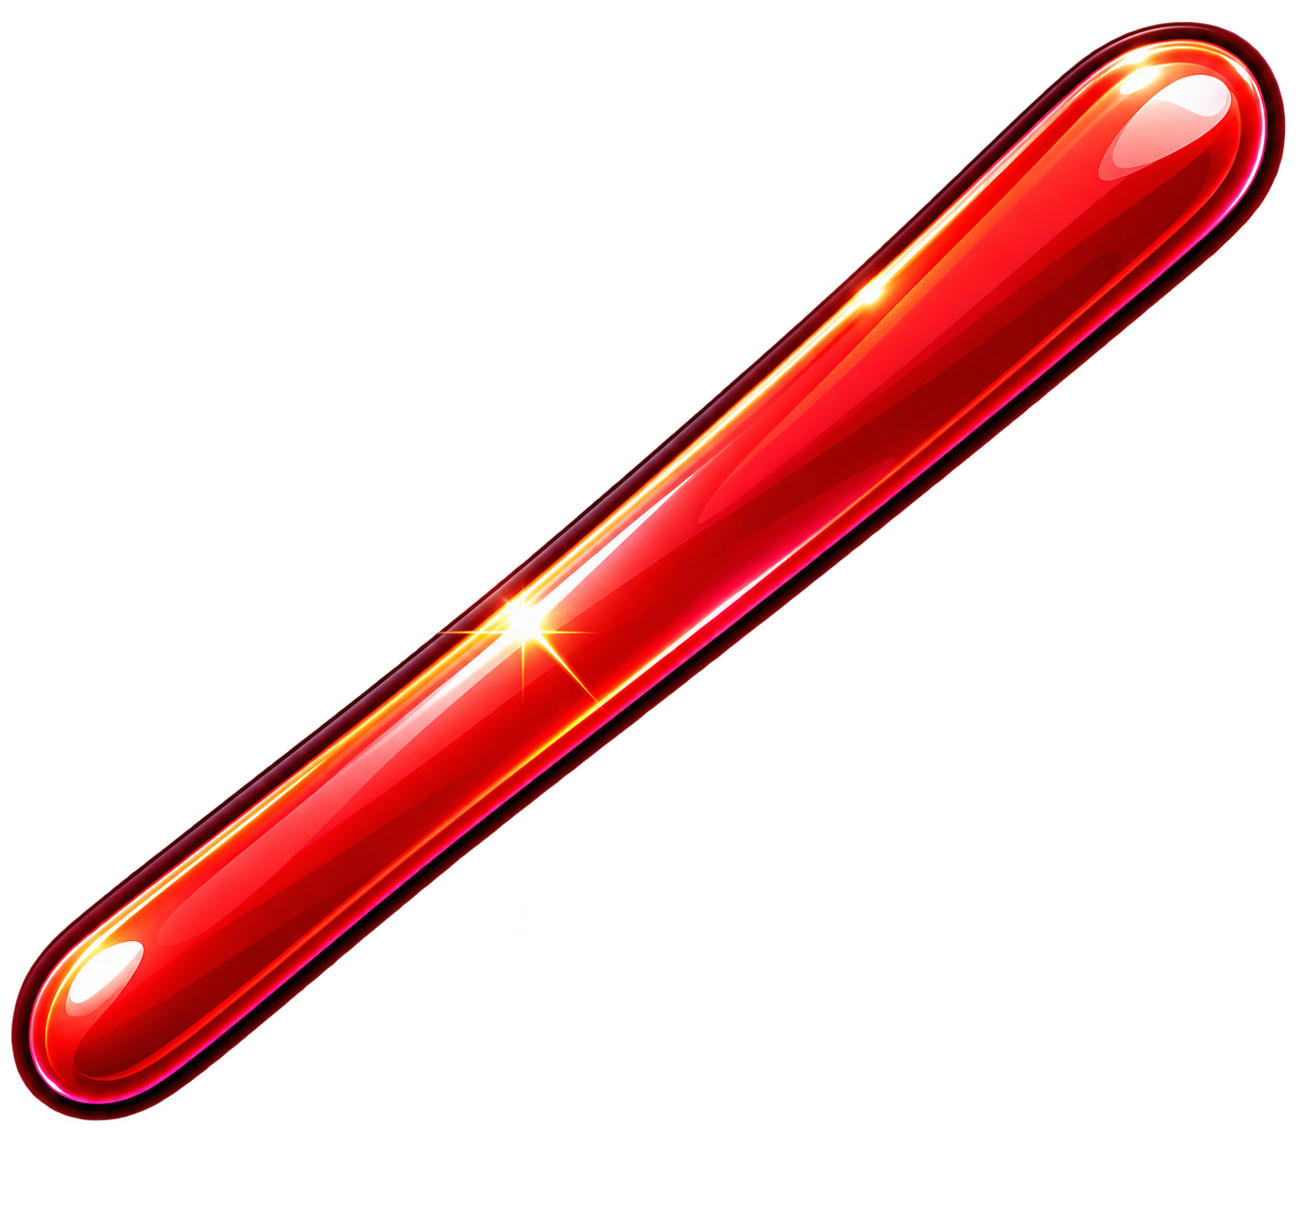
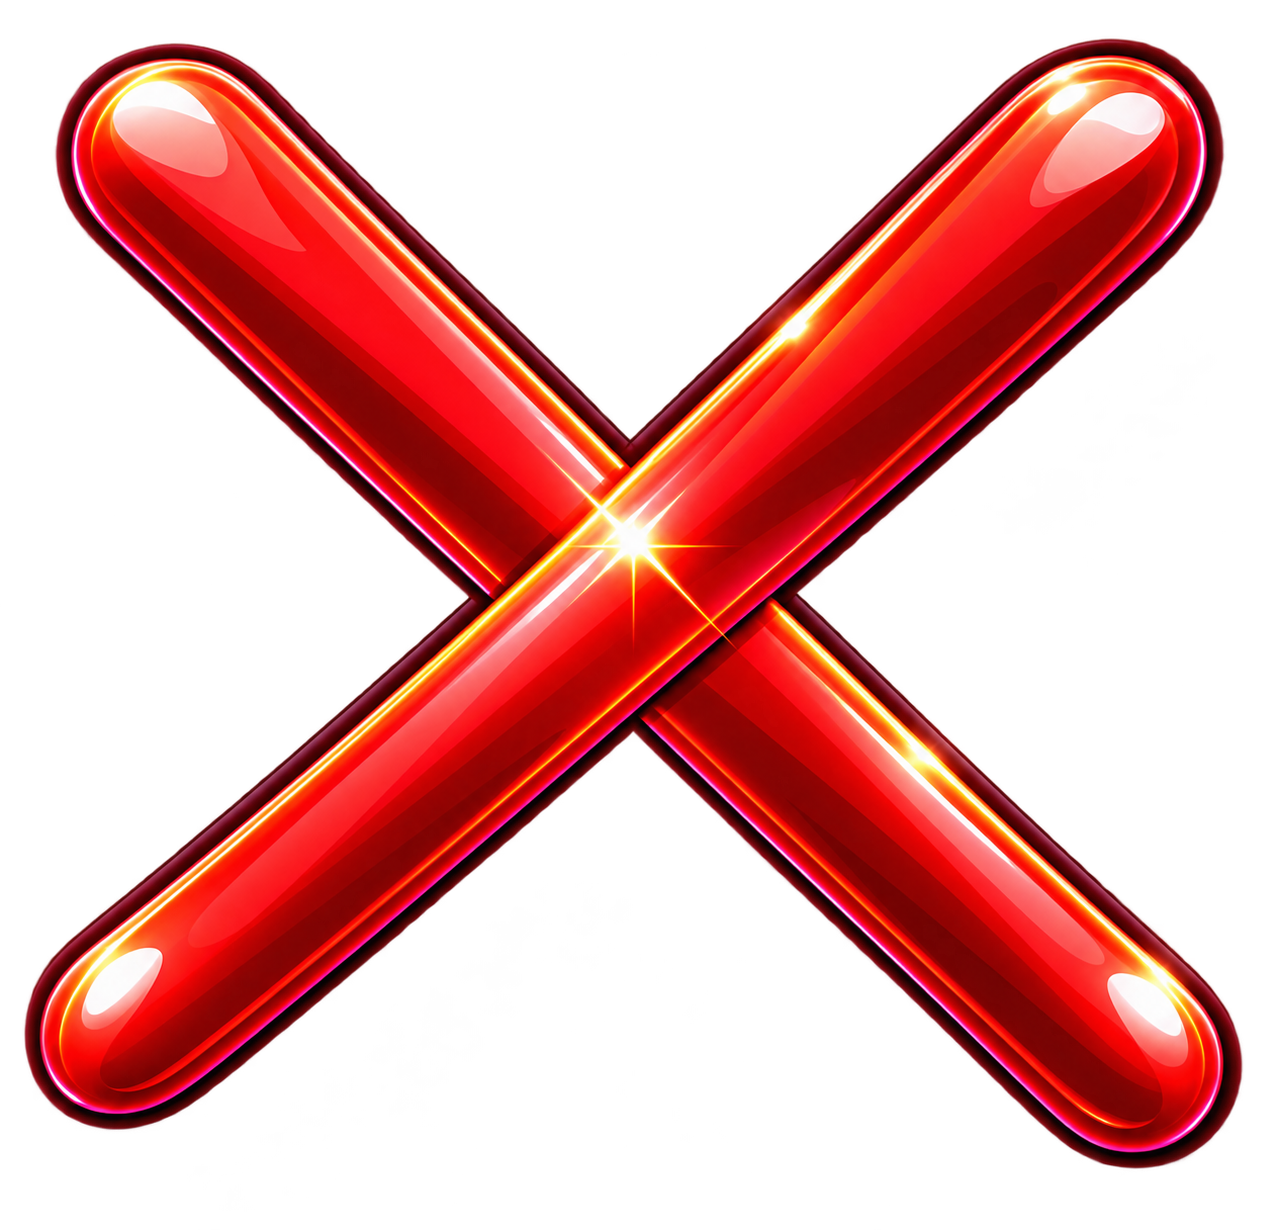
The negative mark is a cross now, so call it a cross
The replacement artwork is a red cross rather than a slash. Both consumers were checked at the size they actually draw at: the mute switch composites at 60px and still reads as a speaker behind the cross, the album pane close button draws at 16px and reads as a cross, though the glossy highlights coarsen at that size.

The word slash is gone from the module that composes the two icons, from the asset comments and from the switch test. The remaining uses of the word are about forward slashes in paths, which are unrelated.

diff --git a/stellody/ui/icons.py b/stellody/ui/icons.py
@@ -1,12 +1,12 @@
-"""Making one icon out of two: a switch, plus the slash that says it is off.
+"""Making one icon out of two: a switch, plus the cross that says it is off.
 
 The struck-through variants are composed here rather than drawn as their own
-files, so the artwork has one source per switch. Redrawing the slash changes
+files, so the artwork has one source per switch. Redrawing the cross changes
 every switch that uses it; a switch redrawn needs no second file kept in
 step with it.
 
 Composing at the size the button will draw at, rather than scaling a composite
-afterwards, keeps the slash the same weight on every button whatever its
+afterwards, keeps the cross the same weight on every button whatever its
 artwork measures.
 """
 
@@ -17,7 +17,7 @@ import pathlib
 from PySide6.QtCore import QRect, QSize, Qt
 from PySide6.QtGui import QIcon, QImage, QPainter, QPixmap
 
-# The slash is drawn over the whole square rather than inset, because it reads
+# The cross is drawn over the whole square rather than inset, because it reads
 # as a strike across the icon rather than as a badge in a corner.
 TRANSPARENT = Qt.GlobalColor.transparent
 SMOOTH = Qt.TransformationMode.SmoothTransformation
@@ -52,7 +52,7 @@ def plain_icon(path: pathlib.Path | None) -> QIcon:
 def struck_through(
     path: pathlib.Path | None, negative: pathlib.Path | None, size_px: int
 ) -> QIcon:
-    """The picture with the slash laid over it, saying this switch is off.
+    """The picture with the cross laid over it, saying this switch is off.
 
     Either file missing leaves the other to speak for itself, because a switch
     that cannot be seen is worse than one whose state has to be read from its
@@ -68,8 +68,8 @@ def struck_through(
     canvas.fill(TRANSPARENT)
     painter = QPainter(canvas)
     painter.drawPixmap(_centred(base, size), base)
-    slash = None if negative is None else _scaled(negative, size)
-    if slash is not None:
-        painter.drawPixmap(_centred(slash, size), slash)
+    cross = None if negative is None else _scaled(negative, size)
+    if cross is not None:
+        painter.drawPixmap(_centred(cross, size), cross)
     painter.end()
     return QIcon(canvas)

diff --git a/stellody/shared/resources.py b/stellody/shared/resources.py
@@ -37,9 +37,9 @@ LIBRARY_HEALTH_ICON = "library-health.png"
 SEARCH_ICON = "search.png"
 REPEAT_ICON = "repeat.png"
 UNMUTE_ICON = "unmute.png"
-# The slash laid over one of the three switches above to say it is off. It is
+# The cross laid over one of the three switches above to say it is off. It is
 # artwork in its own right rather than a variant of each icon, so a change to
-# the slash reaches all three without three files being redrawn.
+# the cross reaches all three without three files being redrawn.
 NEGATIVE_ICON = "negative.png"
 
 
@@ -179,7 +179,7 @@ def unmute_icon_path() -> pathlib.Path | None:
 
 
 def negative_icon_path() -> pathlib.Path | None:
-    """The slash that says a switch is off."""
+    """The cross that says a switch is off."""
     return find_asset(NEGATIVE_ICON)
 
 

diff --git a/stellody/ui/bottom_tray.py b/stellody/ui/bottom_tray.py
@@ -24,7 +24,7 @@ confirm it.
 Shuffle and repeat show their STATE by being lit rather than by being struck
 through, which is where this strip parts from the tray above: that one acts,
 so its pictures say what a press would do; this one holds settings, so its
-switches say how things stand. A slash here would be read as the mark the tray
+switches say how things stand. A cross here would be read as the mark the tray
 uses and taken for an action, on a control that is not offering one. Their
 tooltips name the action, so the pair still says both things at once.
 """

diff --git a/tests/ui/test_switches.py b/tests/ui/test_switches.py
@@ -82,7 +82,7 @@ def _rendered(icon) -> QImage:
 
 
 def _struck() -> QImage:
-    """The speaker with the slash over it, composed as the tray composes it."""
+    """The speaker with the cross over it, composed as the tray composes it."""
     return _rendered(
         struck_through(
             resources.unmute_icon_path(), resources.negative_icon_path(), ICON_PX
